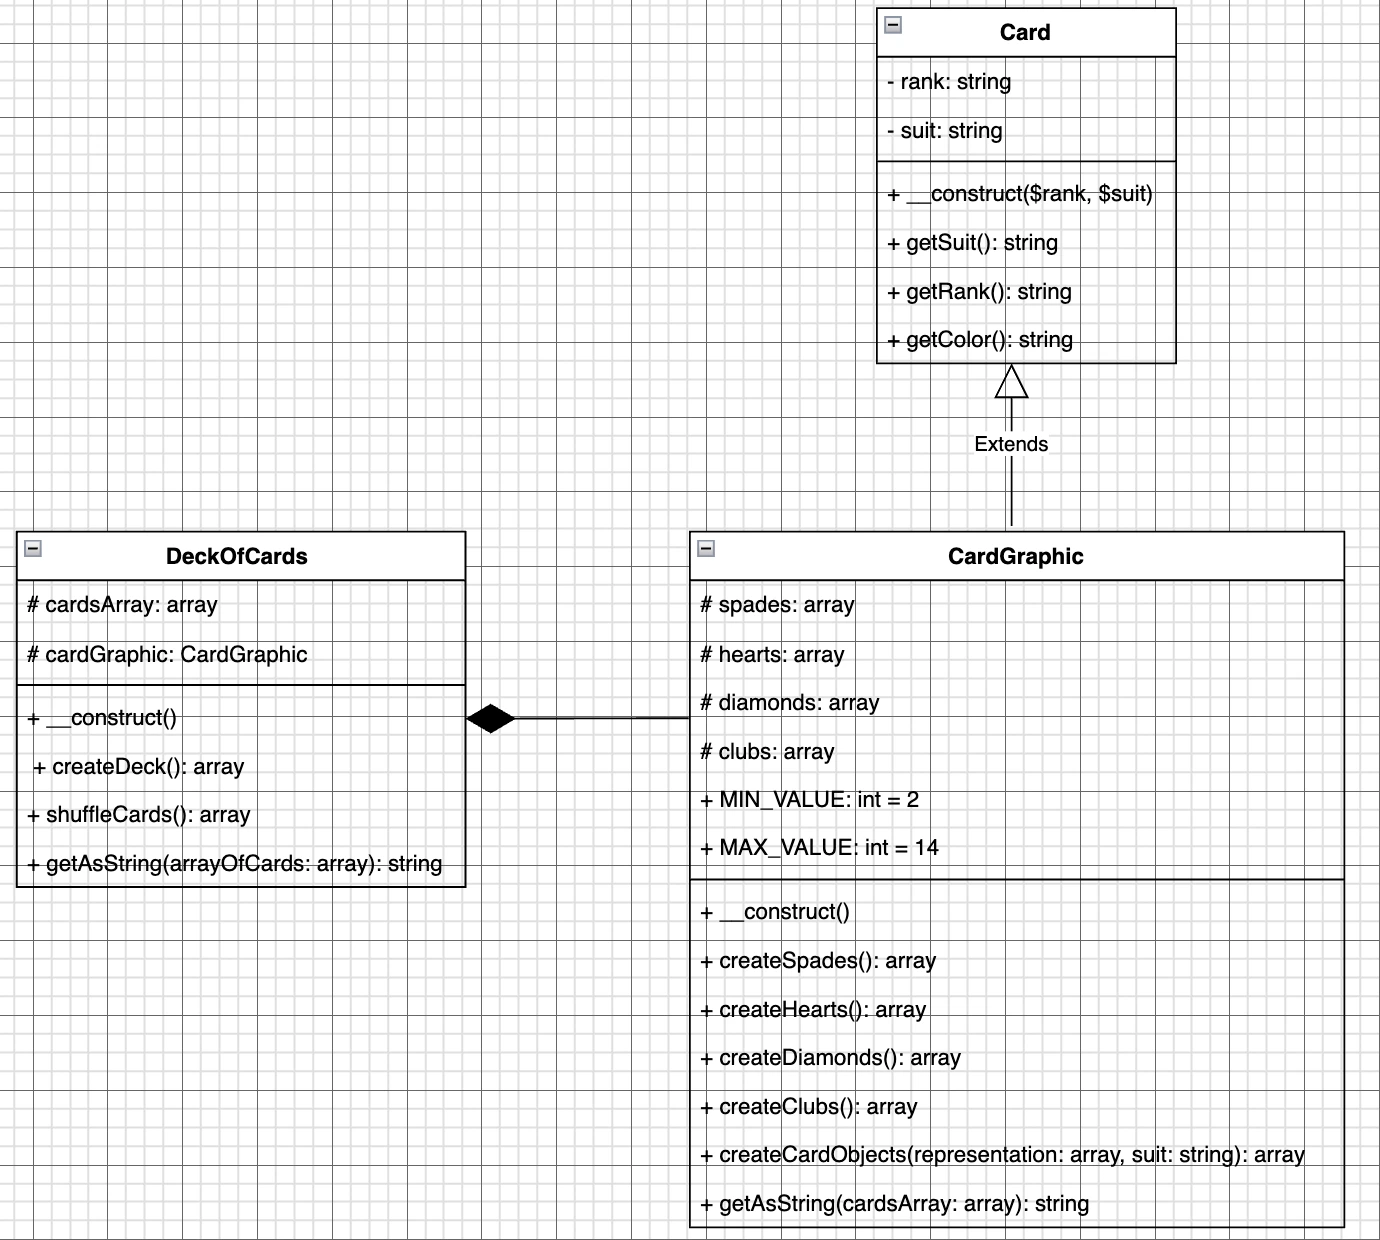
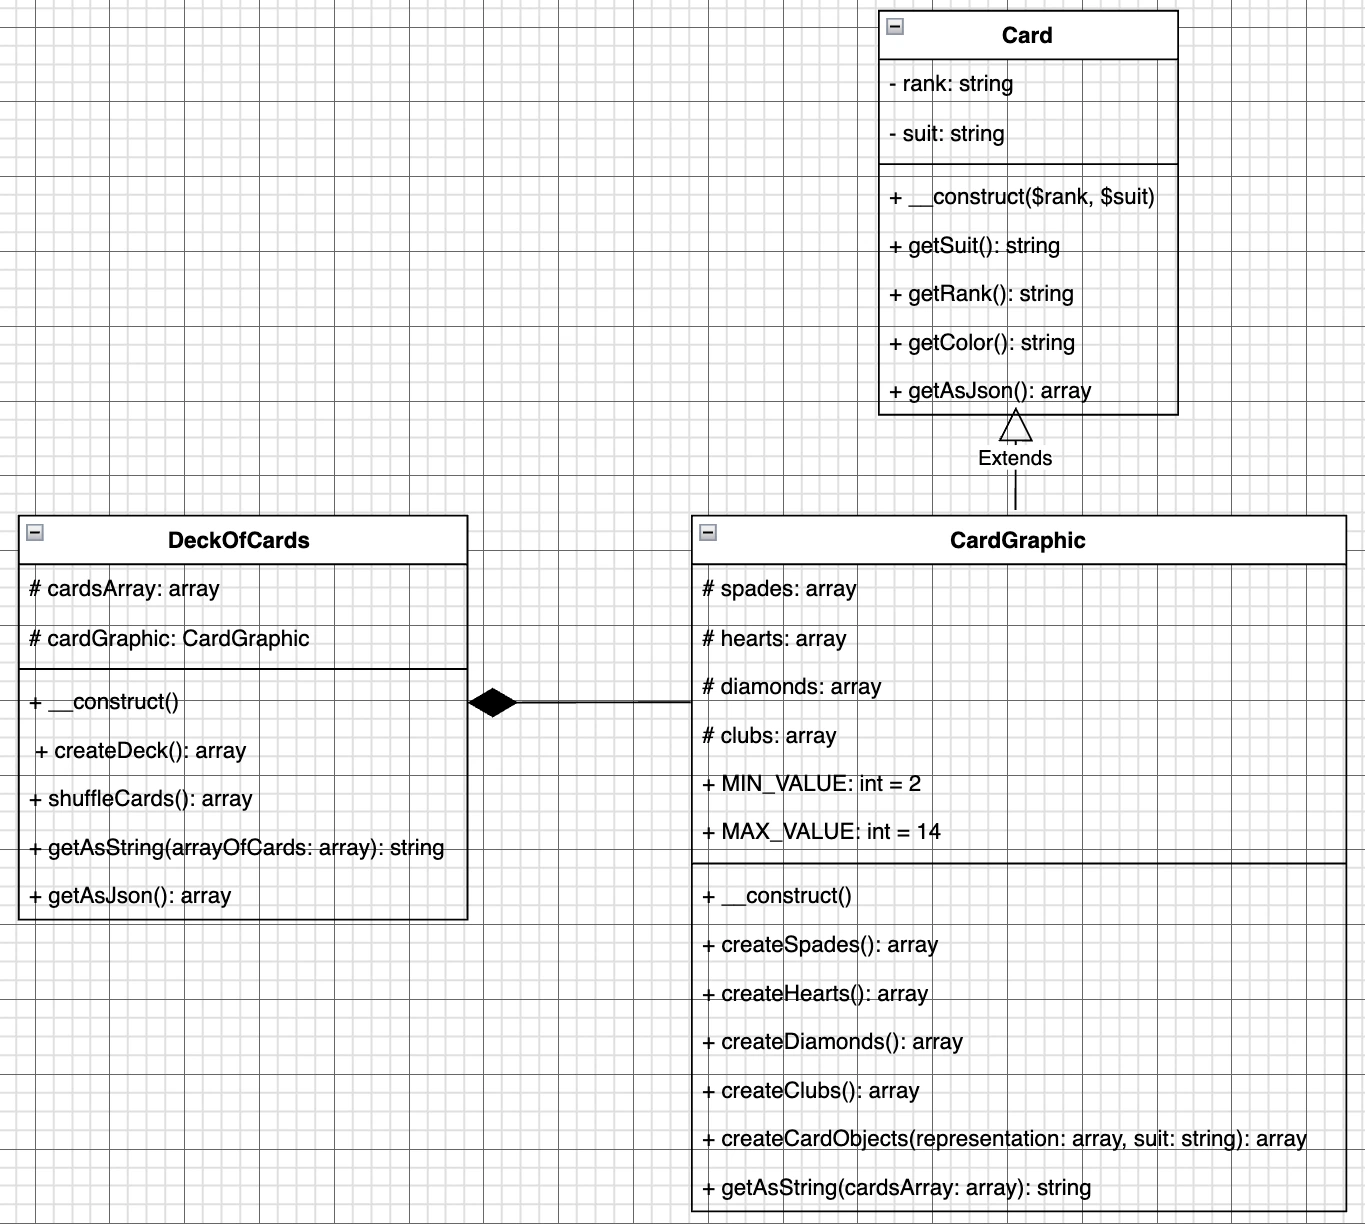
modify the uml diagram and run composer csfix

Changed region(s): [[0.0, 0.0, 1.0, 1.0]]

diff --git a/src/Controller/CardGameController.php b/src/Controller/CardGameController.php
@@ -12,20 +12,22 @@ use Symfony\Component\Routing\Annotation\Route;
 class CardGameController extends AbstractController
 {
     #[Route("/card", name: "card")]
-    public function card(): Response {
+    public function card(): Response
+    {
 
         return $this->render('Cards/card.html.twig');
     }
 
     #[Route("/card/deck", name: "card_deck")]
-    public function cardDeck(): Response {
+    public function cardDeck(): Response
+    {
 
         $deck = new DeckOfCards();
         $cardArray = $deck->createDeck();
         $cards = $deck->getAsString($cardArray);
 
         $data = [
-            "cards"=>$cards
+            "cards" => $cards
         ];
 
         return $this->render('Cards/card-deck.html.twig', $data);
@@ -36,27 +38,27 @@ class CardGameController extends AbstractController
         SessionInterface $session
     ): Response {
 
-    $cards = new DeckOfCards();
-    $cards->createDeck();
-    $shuffledCards = $cards->shuffleCards();
+        $cards = new DeckOfCards();
+        $cards->createDeck();
+        $shuffledCards = $cards->shuffleCards();
 
-    $session->set("shuffled_cards", $shuffledCards);
+        $session->set("shuffled_cards", $shuffledCards);
 
-    $data = [
-        "cardString" => $cards->getAsString($shuffledCards)
-    ];
+        $data = [
+            "cardString" => $cards->getAsString($shuffledCards)
+        ];
 
-    return $this->render('Cards/card-shuffle.html.twig', $data);
-}
+        return $this->render('Cards/card-shuffle.html.twig', $data);
+    }
 
     #[Route("/card/deck/draw", name: "card_draw")]
-        public function drawCard(
-            SessionInterface $session
-        ): Response {
+    public function drawCard(
+        SessionInterface $session
+    ): Response {
 
         $shuffledCards = $session->get("shuffled_cards");
 
-        if(empty($shuffledCards)) {
+        if (empty($shuffledCards)) {
 
             return $this->redirectToRoute("card_shuffle");
         }
@@ -80,15 +82,15 @@ class CardGameController extends AbstractController
     }
 
     #[Route("card/deck/draw/{num<\d+>}", name: "draw_cards")]
-        public function drawCards(
-            int $num,
-            SessionInterface $session
-        ): Response {
+    public function drawCards(
+        int $num,
+        SessionInterface $session
+    ): Response {
 
         // Kollar om kortleken är tom innan anrop till hjälpfunktionen.
         $shuffledCards = $session->get("shuffled_cards", []);
 
-        if(empty($shuffledCards)) {
+        if (empty($shuffledCards)) {
 
             return $this->redirectToRoute("card_shuffle");
         }
@@ -99,26 +101,27 @@ class CardGameController extends AbstractController
     }
 
     #[Route("card/deck/draw/num", name: "draw_cards_num_get", methods: ['GET'])]
-        public function drawCardsGet(): Response {
+    public function drawCardsGet(): Response
+    {
 
         return $this->render('Cards/draw-cards-form.html.twig');
     }
 
     #[Route("card/deck/draw/num", name: "draw_cards_num_post", methods: ['POST'])]
-        public function drawCardsPost(
-            Request $request,
-        ): Response {
+    public function drawCardsPost(
+        Request $request,
+    ): Response {
 
-            $numCards = $request->request->get('num_cards');
+        $numCards = $request->request->get('num_cards');
 
-            return $this->redirectToRoute('draw_cards', ['num' => $numCards]);
+        return $this->redirectToRoute('draw_cards', ['num' => $numCards]);
 
     }
 
     private function drawCardsHelper(
         $num,
         SessionInterface $session
-        ) {
+    ) {
         if ($num > 52) {
             throw new \Exception("Can not draw more than 52 cards!");
         }

diff --git a/src/Controller/ControllerJsonCardGame.php b/src/Controller/ControllerJsonCardGame.php
@@ -12,7 +12,6 @@ use Symfony\Component\Routing\Annotation\Route;
 
 class ControllerJsonCardGame extends AbstractController
 {
-
     #[Route("api/deck", name: "api-deck", methods: ["GET"])]
     public function apiDeck(): Response
     {
@@ -37,23 +36,23 @@ class ControllerJsonCardGame extends AbstractController
     #[Route("api/deck/shuffle", name: "api-deck-shuffle", methods: ["POST"])]
     public function apiDeckShuffle(SessionInterface $session): Response
     {
-    $deck = new DeckOfCards();
-    $deck->createDeck();
-    $deck->shuffleCards();
+        $deck = new DeckOfCards();
+        $deck->createDeck();
+        $deck->shuffleCards();
 
-    $session->set("shuffled_cards_json", $deck->getAsJson());
+        $session->set("shuffled_cards_json", $deck->getAsJson());
 
-    $data = ['deck' => $deck->getAsJson()];
-    $response = $this->responseHelper($data);
+        $data = ['deck' => $deck->getAsJson()];
+        $response = $this->responseHelper($data);
 
-    return $response;
-}
+        return $response;
+    }
 
     #[Route("api/deck/draw", name: "api-deck-draw-get", methods: ["GET"])]
-        public function apiDeckDrawForm(): Response
-        {
-            return $this->render('Cards/json_form.html.twig');
-        }
+    public function apiDeckDrawForm(): Response
+    {
+        return $this->render('Cards/json_form.html.twig');
+    }
 
     #[Route("api/deck/draw", name: "api-deck-draw", methods: ["POST"])]
     public function apiDeckDraw(SessionInterface $session): Response
@@ -75,7 +74,8 @@ class ControllerJsonCardGame extends AbstractController
 
 
     #[Route("api/deck/draw/form", name: "api-deck-draw-cards-form", methods: ["POST"])]
-    public function drawCardsForm(): Response {
+    public function drawCardsForm(): Response
+    {
         return $this->render('Cards/api-draw-cards-form.html.twig');
     }
 
@@ -90,10 +90,10 @@ class ControllerJsonCardGame extends AbstractController
         $drawn = [];
         $count = 0;
 
-    while ($count < $number && !empty($cards)) {
-        $drawn[] = array_pop($cards);
-        $count++;
-    }
+        while ($count < $number && !empty($cards)) {
+            $drawn[] = array_pop($cards);
+            $count++;
+        }
 
         $session->set("shuffled_cards_json", $cards);
 

diff --git a/src/Card/CardGraphic.php b/src/Card/CardGraphic.php
@@ -8,8 +8,8 @@ class CardGraphic extends Card
     protected $hearts;
     protected $diamonds;
     protected $clubs;
-    const MIN_VALUE = 2;
-    const MAX_VALUE = 14;
+    public const MIN_VALUE = 2;
+    public const MAX_VALUE = 14;
 
     public function __construct()
     {
@@ -30,7 +30,7 @@ class CardGraphic extends Card
         $spadesCards = $this->createCardObjects($this->spades, 'spades');
 
         return $spadesCards;
-}
+    }
 
     public function createHearts(): array
     {
@@ -74,32 +74,32 @@ class CardGraphic extends Card
 
     public function createCardObjects(array $representation, string $suit): array
     {
-    $cards = [];
+        $cards = [];
 
-    for($i = self::MIN_VALUE; $i <= self::MAX_VALUE; $i++) {
-        // Skickar både svit och symbol
-        $cards[] = new Card($representation[$i - 2], $suit);
-    }
+        for ($i = self::MIN_VALUE; $i <= self::MAX_VALUE; $i++) {
+            // Skickar både svit och symbol
+            $cards[] = new Card($representation[$i - 2], $suit);
+        }
 
-    return $cards;
+        return $cards;
 
     }
 
     public function getAsString(array $cardsArray): string
     {
-    $strings = [];
+        $strings = [];
 
-    foreach ($cardsArray as $card) {
-        $symbol = $card->getRank();
+        foreach ($cardsArray as $card) {
+            $symbol = $card->getRank();
 
-        if ($card->getColor() === 'red') {
-            $strings[] = '<span class="red">' . $symbol . '</span>';
-        } else {
-            $strings[] = $symbol;
+            if ($card->getColor() === 'red') {
+                $strings[] = '<span class="red">' . $symbol . '</span>';
+            } else {
+                $strings[] = $symbol;
+            }
+
         }
 
-    }
-
-    return implode(" ", $strings);
+        return implode(" ", $strings);
     }
 }

diff --git a/src/Card/DeckOfCards.php b/src/Card/DeckOfCards.php
@@ -44,25 +44,12 @@ class DeckOfCards
         return $this->cardGraphic->getAsString($arrayOfCards);
     }
 
-
-    // public function getAsJson(): array
-    // {
-    //     $deckData = [];
-    //     foreach ($this->cardsArray as $card) {
-    //         $deckData[] = [
-    //             'rank' => $card->getRank(),
-    //             'color' => $card->getColor()
-    //         ];
-    //     }
-    //     return $deckData;
-    // }
-
     public function getAsJson(): array
     {
         $deckData = [];
         foreach ($this->cardsArray as $card) {
             $deckData[] = $card->getAsJson(); // Använder getAsJson på varje kort
-    }
+        }
         return $deckData;
     }
 

diff --git a/src/Card/Card.php b/src/Card/Card.php
@@ -31,8 +31,9 @@ class Card
         return 'black';
     }
 
-   // Ny metod för att hantera ett kort i JSON-format
-   public function getAsJson(): array {
+    // Ny metod för att hantera ett kort i JSON-format
+    public function getAsJson(): array
+    {
 
         return  [
             'rank' => $this->getRank(),
